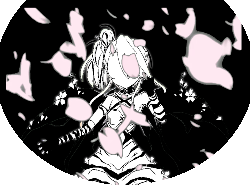
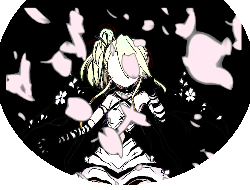
New shit

diff --git a/src/main/java/florademon/FloraDemonMod.java b/src/main/java/florademon/FloraDemonMod.java
@@ -2,9 +2,16 @@ package florademon;
 
 import basemod.AutoAdd;
 import basemod.BaseMod;
+import basemod.ModLabeledToggleButton;
+import basemod.ModPanel;
 import basemod.interfaces.*;
 import com.badlogic.gdx.graphics.Color;
+import com.evacipated.cardcrawl.modthespire.lib.SpireConfig;
+import com.megacrit.cardcrawl.core.CardCrawlGame;
+import com.megacrit.cardcrawl.helpers.CardLibrary;
+import com.megacrit.cardcrawl.helpers.FontHelper;
 import com.megacrit.cardcrawl.unlock.UnlockTracker;
+import florademon.cards.ApostleForm;
 import florademon.cards.BaseCard;
 import florademon.character.FloraDemonCharacter;
 import florademon.potions.BasePotion;
@@ -26,6 +33,7 @@ import org.apache.logging.log4j.LogManager;
 import org.apache.logging.log4j.Logger;
 import org.scannotation.AnnotationDB;
 
+import java.io.IOException;
 import java.nio.charset.StandardCharsets;
 import java.util.*;
 
@@ -41,7 +49,18 @@ public class FloraDemonMod implements
     public static String modID; //Edit your pom.xml to change this
     static { loadModInfo(); }
     public static final Logger logger = LogManager.getLogger(modID); //Used to output to the console.
+
+    public static final String ENABLE_SPOILERS = "enableSpoilers";
+    public static boolean enableSpoilers = false;
+
+    public static SpireConfig floraDemonConfig;
+
+    public static UIStrings uiStrings;
+    public static String[] TEXT;
+    public static String[] EXTRA_TEXT;
     private static final String resourcesFolder = "florademon";
+
+
 
     private static final String BG_ATTACK = characterPath("cardback/bg_attack.png");
     private static final String BG_ATTACK_P = characterPath("cardback/bg_attack_p.png");
@@ -77,16 +96,53 @@ public class FloraDemonMod implements
     public FloraDemonMod() {
         BaseMod.subscribe(this); //This will make BaseMod trigger all the subscribers at their appropriate times.
         logger.info(modID + " subscribed to BaseMod.");
+
+        Properties floraDemonDefaultSettings = new Properties();
+        floraDemonDefaultSettings.setProperty(ENABLE_SPOILERS, Boolean.toString(enableSpoilers));
+        try {
+            floraDemonConfig = new SpireConfig("FloraDemonMod", "FloraDemonModConfig", floraDemonDefaultSettings);
+            enableSpoilers = floraDemonConfig.getBool(ENABLE_SPOILERS);
+        } catch (IOException e) {
+            e.printStackTrace();
+        }
     }
 
     @Override
     public void receivePostInitialize() {
+
+        uiStrings = CardCrawlGame.languagePack.getUIString(makeID("ModConfigs"));
+        EXTRA_TEXT = uiStrings.EXTRA_TEXT;
+        TEXT = uiStrings.TEXT;
         registerPotions();
         //This loads the image used as an icon in the in-game mods menu.
         Texture badgeTexture = TextureLoader.getTexture(imagePath("badge.png"));
         //Set up the mod information displayed in the in-game mods menu.
         //The information used is taken from your pom.xml file.
-        BaseMod.registerModBadge(badgeTexture, info.Name, GeneralUtils.arrToString(info.Authors), info.Description, null);
+        ModPanel settingsPanel = new ModPanel();
+
+
+        BaseMod.registerModBadge(badgeTexture, info.Name, GeneralUtils.arrToString(info.Authors), info.Description, settingsPanel);
+
+        float currentYposition = 740f;
+        float spacingY = 55f;
+
+        //Used to set the unused self damage setting.
+        ModLabeledToggleButton enableSpoilersButton = new ModLabeledToggleButton(TEXT[0],350.0f, currentYposition, Settings.CREAM_COLOR, FontHelper.charDescFont,
+                floraDemonConfig.getBool(ENABLE_SPOILERS), settingsPanel, (label) -> {}, (button) -> {
+            floraDemonConfig.setBool(ENABLE_SPOILERS, button.enabled);
+            enableSpoilers = button.enabled;
+            ApostleForm galleryCard = (ApostleForm) CardLibrary.getCard(ApostleForm.ID);
+            if (galleryCard != null){
+                galleryCard.censorSpoilers();
+            }
+            try {
+                floraDemonConfig.save();} catch (IOException e) {e.printStackTrace();}
+
+        });
+        currentYposition -= spacingY;
+
+        settingsPanel.addUIElement(enableSpoilersButton);
+
     }
 
     public static void registerPotions() {

diff --git a/src/main/java/florademon/cards/ApostleForm.java b/src/main/java/florademon/cards/ApostleForm.java
@@ -1,13 +1,21 @@
 package florademon.cards;
 
+import com.badlogic.gdx.graphics.Texture;
 import com.megacrit.cardcrawl.actions.common.ApplyPowerAction;
 import com.megacrit.cardcrawl.characters.AbstractPlayer;
+import com.megacrit.cardcrawl.core.CardCrawlGame;
+import com.megacrit.cardcrawl.localization.CardStrings;
 import com.megacrit.cardcrawl.monsters.AbstractMonster;
 import com.megacrit.cardcrawl.powers.ThornsPower;
+import florademon.FloraDemonMod;
 import florademon.actions.ApostleFormAction;
 import florademon.character.FloraDemonCharacter;
 import florademon.powers.ApostleFormPower;
 import florademon.util.CardStats;
+import florademon.util.TextureLoader;
+
+import static florademon.FloraDemonMod.cardPath;
+import static florademon.FloraDemonMod.enableSpoilers;
 
 public class ApostleForm extends BaseCard {
     public static final String ID = makeID(ApostleForm.class.getSimpleName());
@@ -18,6 +26,8 @@ public class ApostleForm extends BaseCard {
     private static final int UPG_BLOCK = 2;
     private static final int MAGIC = 1;
     private static final int UPG_MAGIC = 1;
+
+    private static final CardStrings cardStrings;
 
     private static final CardStats info = new CardStats(
             FloraDemonCharacter.Enums.CARD_COLOR, //The card color. If you're making your own character, it'll look something like this. Otherwise, it'll be CardColor.RED or something similar for a basegame character color.
@@ -30,11 +40,50 @@ public class ApostleForm extends BaseCard {
     public ApostleForm() {
         super(ID, info);
         setMagic(MAGIC, UPG_MAGIC);
+        if (!enableSpoilers){
+            censorSpoilers();
+        }
+    }
+
+    public void censorSpoilers(){
+        if (!enableSpoilers){
+            this.name = cardStrings.EXTENDED_DESCRIPTION[0];
+            this.loadCardImage(cardPath("power/DemonLordsBlessing.png"));
+            this.portraitImg = TextureLoader.getTexture(cardPath("power/DemonLordsBlessing_p.png"));
+        } else {
+            this.name = cardStrings.NAME;
+            this.loadCardImage(cardPath("power/ApostleForm.png"));
+            this.portraitImg = TextureLoader.getTexture(cardPath("power/ApostleForm_p.png"));
+        }
+    }
+
+    public Texture getPortraitImage(){
+        if (enableSpoilers){
+            return super.getPortraitImage();
+        } else {
+            return TextureLoader.getTexture(cardPath("power/DemonLordsBlessing_p.png"));
+        }
+    }
+
+
+    public float getTitleFontSize() {
+        if (enableSpoilers){
+            return super.getTitleFontSize();
+        } else {
+            return 18F;
+        }
     }
 
     @Override
     public void use(AbstractPlayer p, AbstractMonster m) {
+        if (enableSpoilers) {
+            addToBot(new ApostleFormAction());
+        }
         addToBot(new ApplyPowerAction(p, p, new ApostleFormPower(p, magicNumber)));
-        addToBot(new ApostleFormAction());
+
+    }
+
+    static {
+        cardStrings = CardCrawlGame.languagePack.getCardStrings(ID);
     }
 }

diff --git a/src/main/java/florademon/powers/ApostleFormPower.java b/src/main/java/florademon/powers/ApostleFormPower.java
@@ -6,11 +6,11 @@ import com.megacrit.cardcrawl.cards.AbstractCard;
 import com.megacrit.cardcrawl.core.AbstractCreature;
 import com.megacrit.cardcrawl.dungeons.AbstractDungeon;
 import com.megacrit.cardcrawl.powers.AbstractPower;
+import florademon.FloraDemonMod;
 import florademon.actions.NurtureAction;
 import florademon.util.TextureLoader;
 
-import static florademon.FloraDemonMod.characterPath;
-import static florademon.FloraDemonMod.makeID;
+import static florademon.FloraDemonMod.*;
 
 
 public class ApostleFormPower extends BasePower implements CloneablePowerInterface {
@@ -31,11 +31,15 @@ public class ApostleFormPower extends BasePower implements CloneablePowerInterfa
     }
 
     public void onRemove(){
-        AbstractDungeon.player.img = TextureLoader.getTexture(characterPath("deathpolca.png"));
+        if (enableSpoilers) {
+            AbstractDungeon.player.img = TextureLoader.getTexture(characterPath("deathpolca.png"));
+        }
     }
 
     public void onVictory(){
-        AbstractDungeon.player.img = TextureLoader.getTexture(characterPath("deathpolca.png"));
+        if (enableSpoilers) {
+            AbstractDungeon.player.img = TextureLoader.getTexture(characterPath("deathpolca.png"));
+        }
     }
 
     public void updateDescription() {
@@ -43,6 +47,9 @@ public class ApostleFormPower extends BasePower implements CloneablePowerInterfa
             this.description = DESCRIPTIONS[0];
         } else {
             this.description = DESCRIPTIONS[1] + (amount) + DESCRIPTIONS[2];
+        }
+        if (!FloraDemonMod.enableSpoilers){
+            this.name = DESCRIPTIONS[3];
         }
     }
 

diff --git a/src/main/java/florademon/actions/ApostleFormAction.java b/src/main/java/florademon/actions/ApostleFormAction.java
@@ -1,10 +1,13 @@
 package florademon.actions;
 
+import com.badlogic.gdx.graphics.Texture;
+import com.badlogic.gdx.graphics.g2d.SpriteBatch;
 import com.megacrit.cardcrawl.actions.AbstractGameAction;
 import com.megacrit.cardcrawl.cards.AbstractCard;
 import com.megacrit.cardcrawl.characters.AbstractPlayer;
 import com.megacrit.cardcrawl.dungeons.AbstractDungeon;
 import florademon.cards.DemonsRoots;
+import florademon.powers.ApostleFormPower;
 import florademon.util.TextureLoader;
 
 import java.util.ArrayList;
@@ -19,6 +22,10 @@ public class ApostleFormAction extends AbstractGameAction {
     @Override
     public void update() {
         AbstractPlayer p = AbstractDungeon.player;
+        if (p.hasPower(ApostleFormPower.POWER_ID)){
+            this.isDone = true;
+            return;
+        }
         ArrayList<AbstractCard> allCards = new ArrayList<AbstractCard>(p.drawPile.group);
         allCards.addAll(p.hand.group);
         allCards.addAll(p.discardPile.group);
@@ -28,7 +35,8 @@ public class ApostleFormAction extends AbstractGameAction {
                 ((DemonsRoots) c).turnIntoOriginRoots();
             }
         });
-        p.img = TextureLoader.getTexture(characterPath("deathpolca_apostle.png"));
+        //p.img = TextureLoader.getTexture(characterPath("deathpolca_apostle.png"));
+        p.img = new Texture(characterPath("deathpolca_apostle.png"));
         this.isDone = true;
     }
 }

diff --git a/src/main/java/florademon/cards/DemonsRoots.java b/src/main/java/florademon/cards/DemonsRoots.java
@@ -18,6 +18,7 @@ import florademon.util.CardStats;
 import florademon.util.TextureLoader;
 
 import static florademon.FloraDemonMod.cardPath;
+import static florademon.FloraDemonMod.enableSpoilers;
 
 public class DemonsRoots extends BaseCard {
     public static final String ID = makeID(DemonsRoots.class.getSimpleName());
@@ -54,7 +55,7 @@ public class DemonsRoots extends BaseCard {
     }
 
     public void turnIntoOriginRoots(){
-        if (originRoots){
+        if (originRoots || !enableSpoilers){
             return;
         }
         this.baseMagicNumber++;
@@ -63,9 +64,17 @@ public class DemonsRoots extends BaseCard {
             this.name += "+";
         }
         this.loadCardImage(cardPath("attack/OriginRoots.png"));
-        this.portraitImg = TextureLoader.getTexture(cardPath("power/OriginRoots_p.png"));
+        this.portraitImg = TextureLoader.getTexture(cardPath("attack/OriginRoots_p.png"));
 
         originRoots = true;
+    }
+
+    public Texture getPortraitImage(){
+        if (originRoots){
+            return TextureLoader.getTexture(cardPath("attack/OriginRoots_p.png"));
+        } else {
+            return super.getPortraitImage();
+        }
     }
 
     @Override

diff --git a/src/main/java/florademon/cards/CrystalShell.java b/src/main/java/florademon/cards/CrystalShell.java
@@ -18,7 +18,7 @@ public class CrystalShell extends BaseCard {
     private static final int UPG_DAMAGE = 3;
     private static final int BLOCK = 50;
     private static final int UPG_BLOCK = 20;
-    private static final int MAGIC = 3;
+    private static final int MAGIC = 2;
     private static final int UPG_MAGIC = 0;
 
     private static final CardStats info = new CardStats(
@@ -39,7 +39,7 @@ public class CrystalShell extends BaseCard {
     @Override
     public void use(AbstractPlayer p, AbstractMonster m) {
         addToBot(new GainBlockAction(p, p, block));
-        addToBot(new ApplyPowerAction(p, p, new BlurPower(p, magicNumber)));
-        addToBot(new ApplyPowerAction(p, p, new CrystalShellPower(p, 1)));
+        addToBot(new ApplyPowerAction(p, p, new BlurPower(p, 1)));
+        addToBot(new ApplyPowerAction(p, p, new CrystalShellPower(p, magicNumber)));
     }
 }

diff --git a/src/main/java/florademon/cards/Gardenwork.java b/src/main/java/florademon/cards/Gardenwork.java
@@ -22,7 +22,7 @@ public class Gardenwork extends BaseCard {
     private static final int BLOCK = 5;
     private static final int UPG_BLOCK = 2;
     private static final int MAGIC = 2;
-    private static final int UPG_MAGIC = 1;
+    private static final int UPG_MAGIC = 0;
 
     private static final CardStats info = new CardStats(
             FloraDemonCharacter.Enums.CARD_COLOR, //The card color. If you're making your own character, it'll look something like this. Otherwise, it'll be CardColor.RED or something similar for a basegame character color.
@@ -37,6 +37,11 @@ public class Gardenwork extends BaseCard {
         setMagic(MAGIC,UPG_MAGIC);
         this.exhaust = true;
         setCustomVar("BLOOM", 1);
+    }
+
+    public void upgrade(){
+        super.upgrade();
+        this.exhaust = false;
     }
 
     @Override

diff --git a/src/main/java/florademon/relics/EnergyDrink.java b/src/main/java/florademon/relics/EnergyDrink.java
@@ -39,7 +39,8 @@ public class EnergyDrink extends BaseRelic{
         for (int i = 0; i < NUMNURTURES; i++) {
             if (!possibleCards.isEmpty()) {
                 AbstractCard theCard = (AbstractCard) possibleCards.get(AbstractDungeon.miscRng.random(0, possibleCards.size() - 1));
-                addToTop(new NurtureAction(theCard, 1));
+                NurtureAction nurture = new NurtureAction(theCard, 1);
+                nurture.update();
                 AbstractDungeon.player.bottledCardUpgradeCheck(theCard);
                 AbstractDungeon.effectsQueue.add(new UpgradeShineEffect((float) Settings.WIDTH / 2.0F, (float) Settings.HEIGHT / 2.0F));
                 AbstractDungeon.topLevelEffectsQueue.add(new ShowCardBrieflyEffect(theCard.makeStatEquivalentCopy()));

diff --git a/src/main/java/florademon/cards/PathOfEvil.java b/src/main/java/florademon/cards/PathOfEvil.java
@@ -38,14 +38,15 @@ public class PathOfEvil extends BaseCard {
 
     }
 
-
+    @Override
+    public void upgrade() {
+        super.upgrade();
+        this.selfRetain = true;
+    }
 
     @Override
     public void use(AbstractPlayer p, AbstractMonster m) {
 
-        if (this.upgraded){
-            addToBot(new ApplyPowerAction(p, p, new StrengthPower(p, magicNumber)));
-        }
         this.addToBot(new LimitBreakAction());
         AbstractDungeon.getMonsters().monsters.forEach((thisCreature) -> {
             if (thisCreature.hasPower(StrengthPower.POWER_ID)){

diff --git a/src/main/java/florademon/actions/NurtureDrawPileToHandAction.java b/src/main/java/florademon/actions/NurtureDrawPileToHandAction.java
@@ -58,7 +58,9 @@ public class NurtureDrawPileToHandAction extends AbstractGameAction {
                         } else {
                             this.player.drawPile.moveToHand(c, this.player.drawPile);
                         }
+                        addToBot(new NurtureAction(c, 1));
                     }
+
 
                     this.isDone = true;
                 } else {
